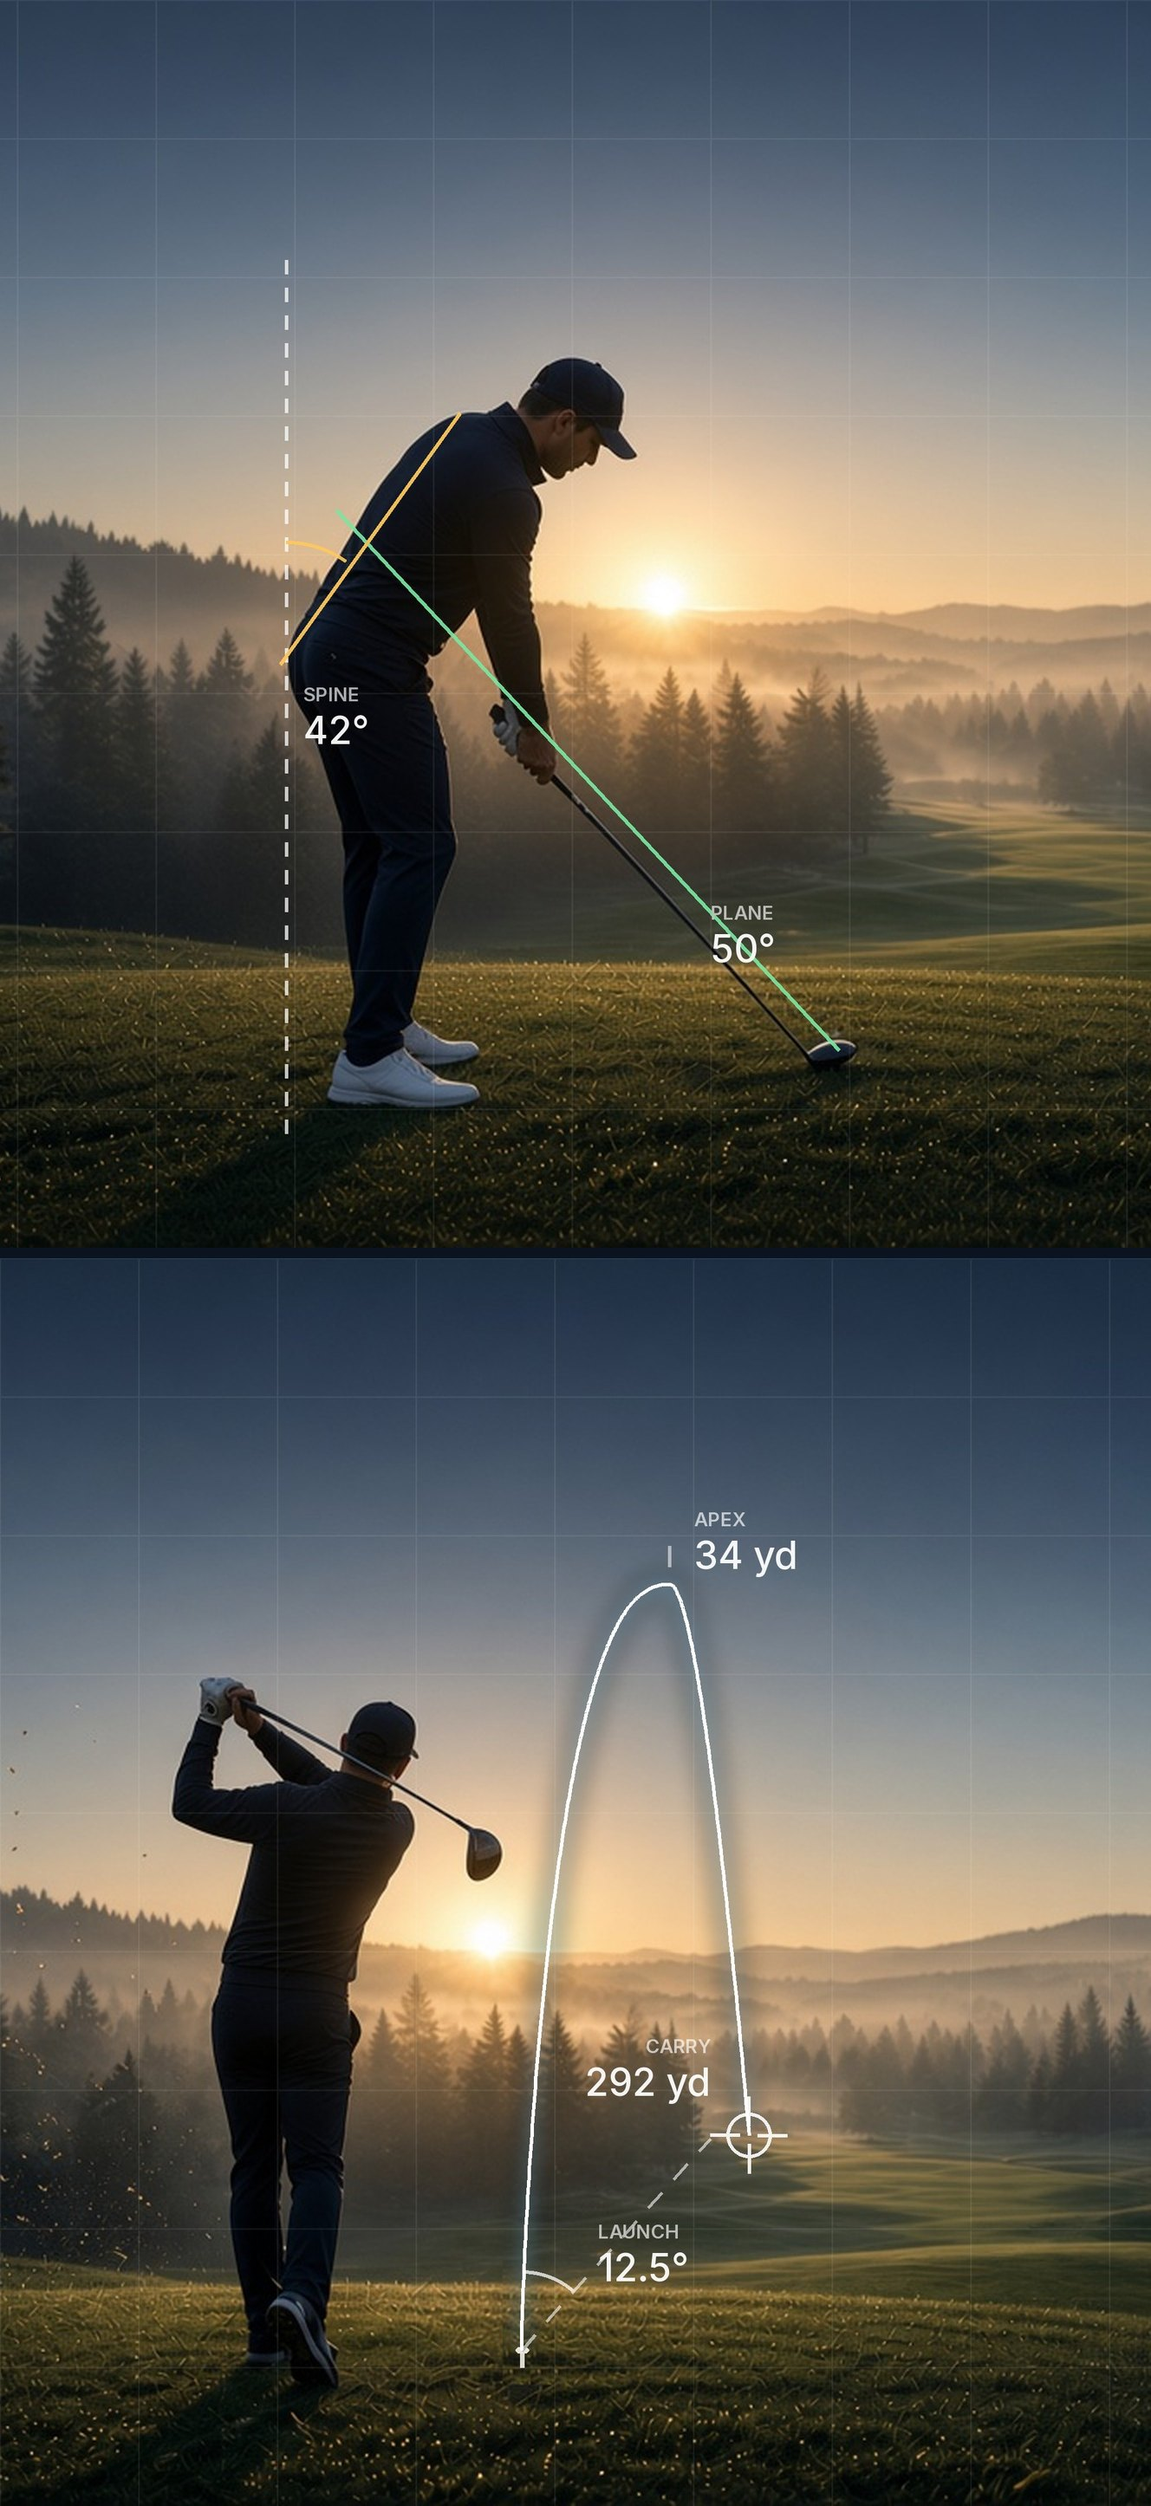
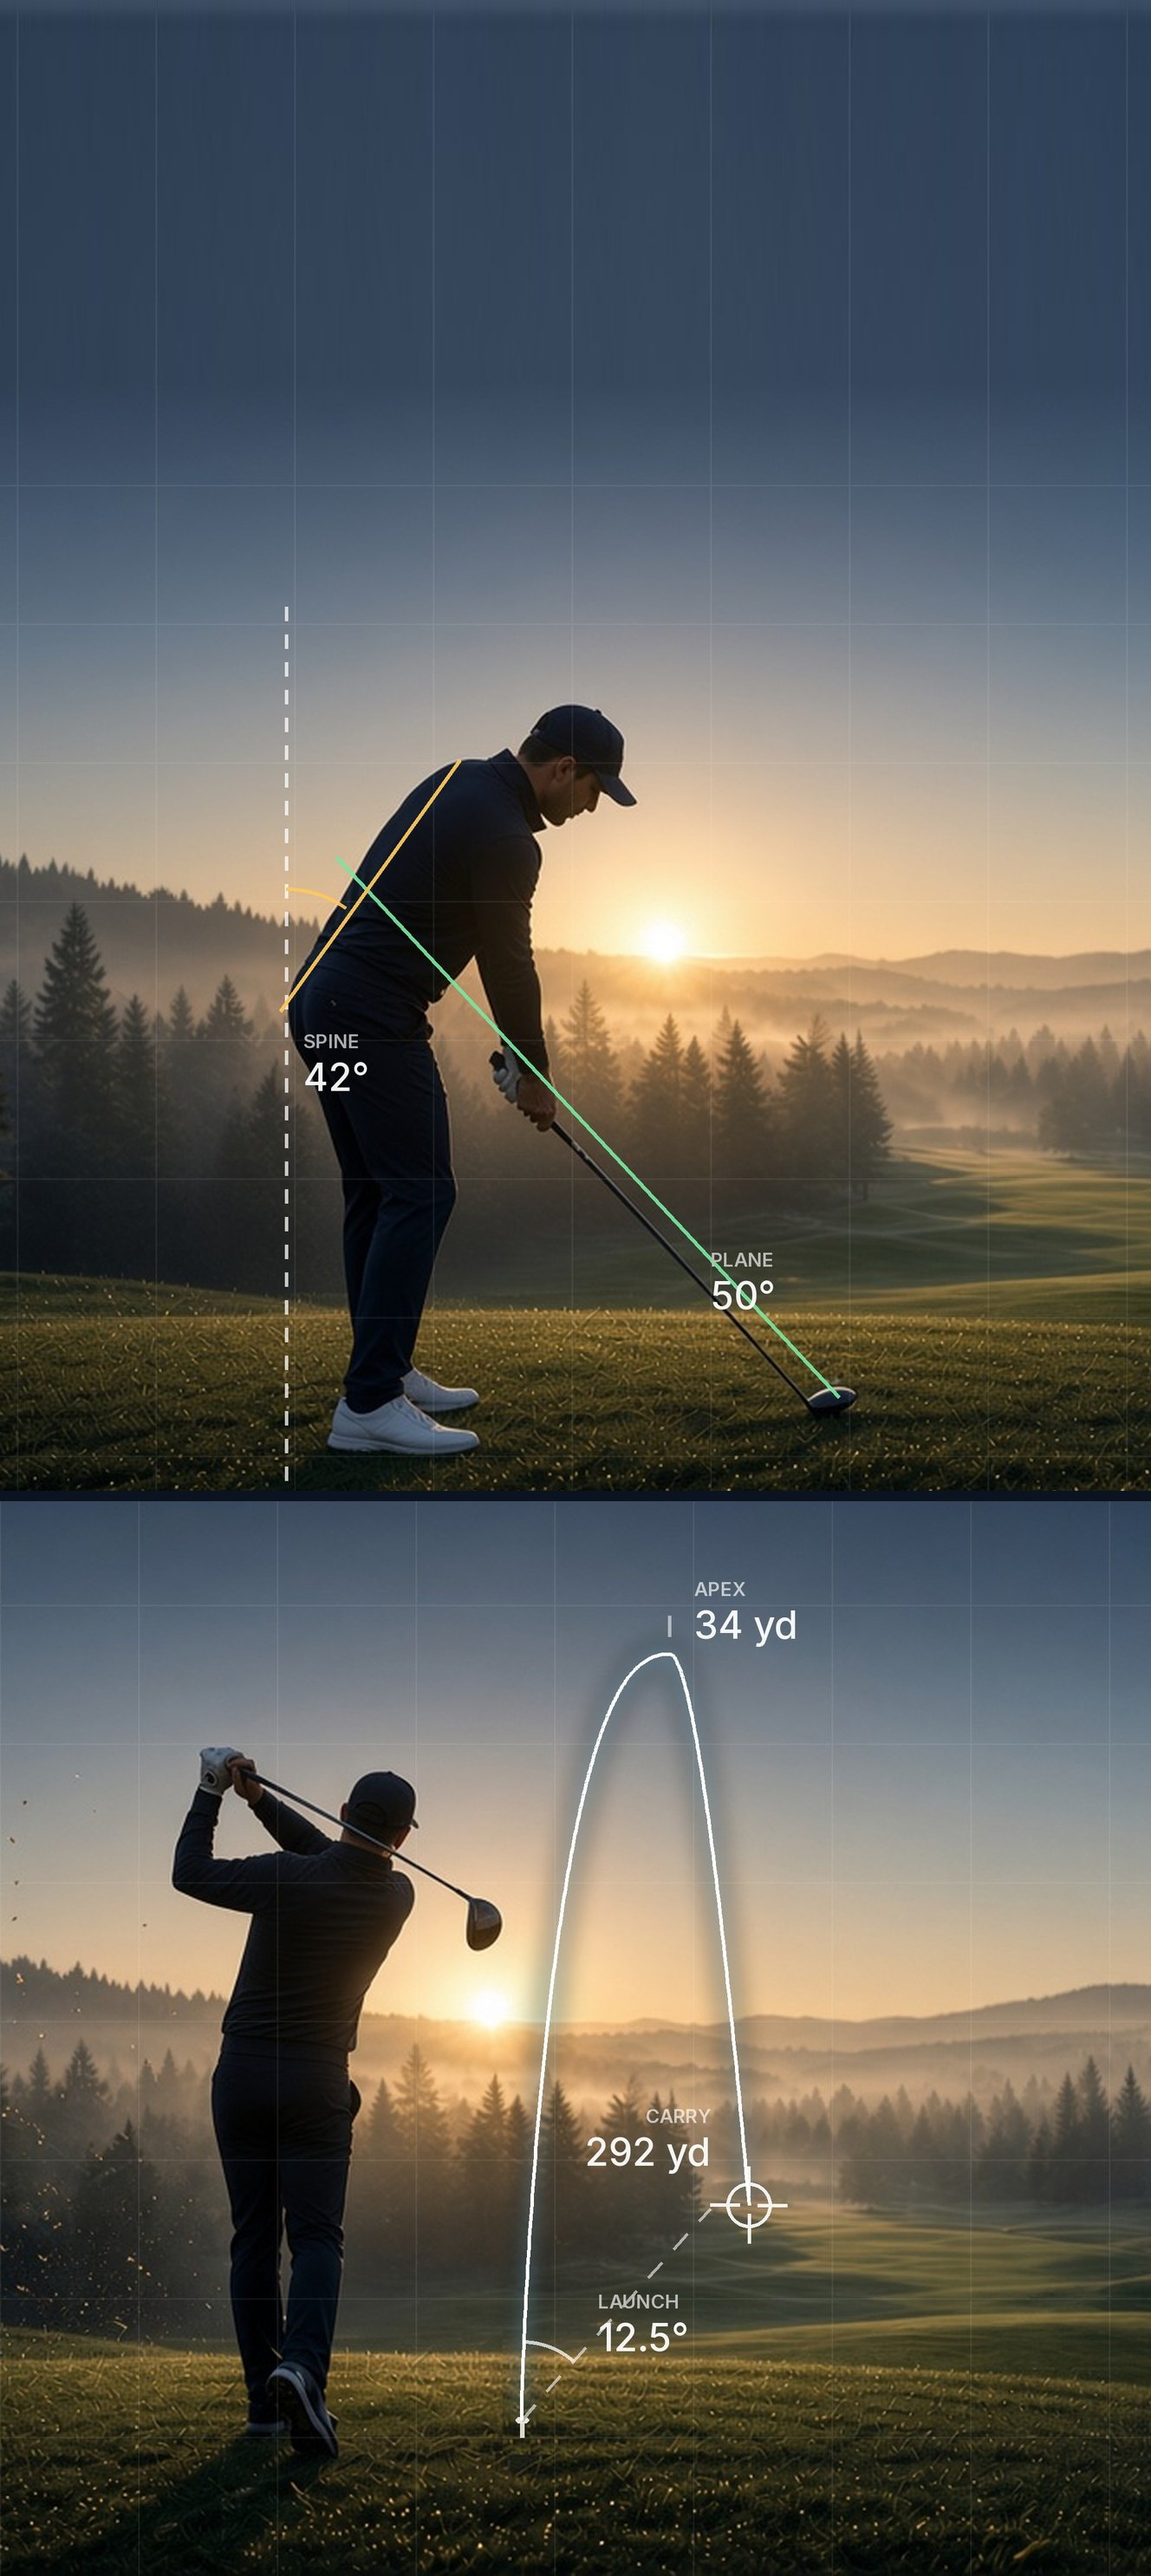
Welcome: more sky above the address golfer so the title clears his head; fill full screen

diff --git a/src/styles.css b/src/styles.css
@@ -1393,9 +1393,9 @@ textarea { resize: vertical; }
 }
 
 .welcome {
-  position: relative;
+  position: fixed;
+  inset: 0;
   overflow: hidden;
-  height: 100dvh;
   background: #0b1424;
   color: #f4f7fb;
 }
